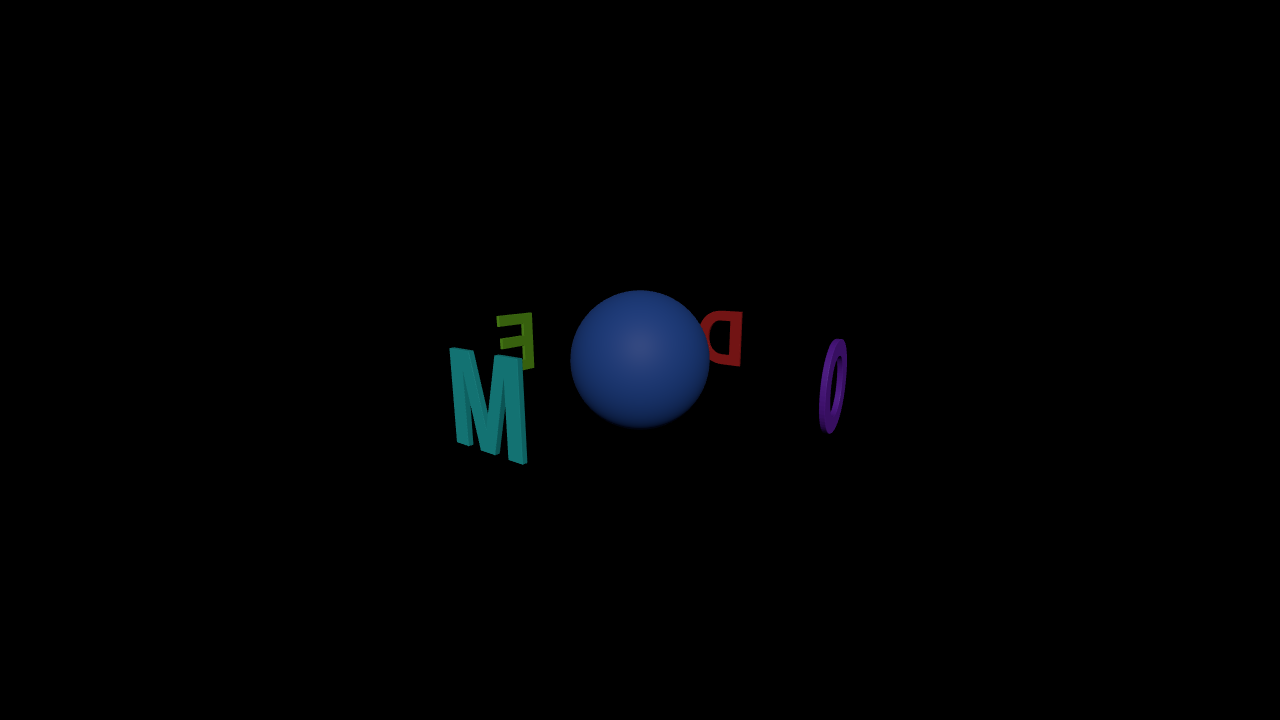
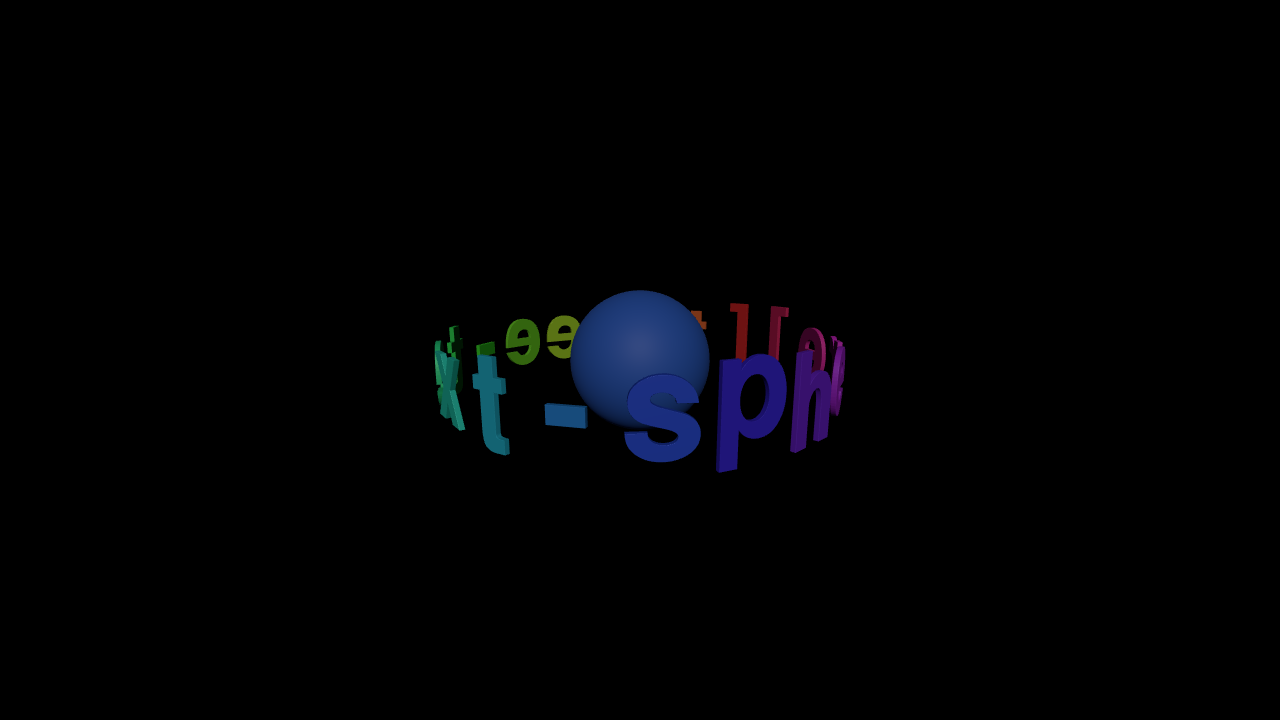
Update screenshot with new demo text
- Retake screenshot with updated text
- Update cache-busting timestamp in README

🤖 Generated with [Claude Code](https://claude.com/claude-code)

Changed region(s): [[0.3125, 0.3972, 0.6875, 0.6722]]

diff --git a/README.md b/README.md
@@ -2,7 +2,7 @@
 
 A Rust/WebAssembly application that renders 3D text orbiting around a sphere, using Yew and three.js. Inspired by the Godot implementation in [godot-text-sphere](../godot-text-sphere).
 
-![Screenshot](images/screenshot.png?ts=1734032357295)
+![Screenshot](images/screenshot.png?ts=1734033363716)
 
 ## Features
 
